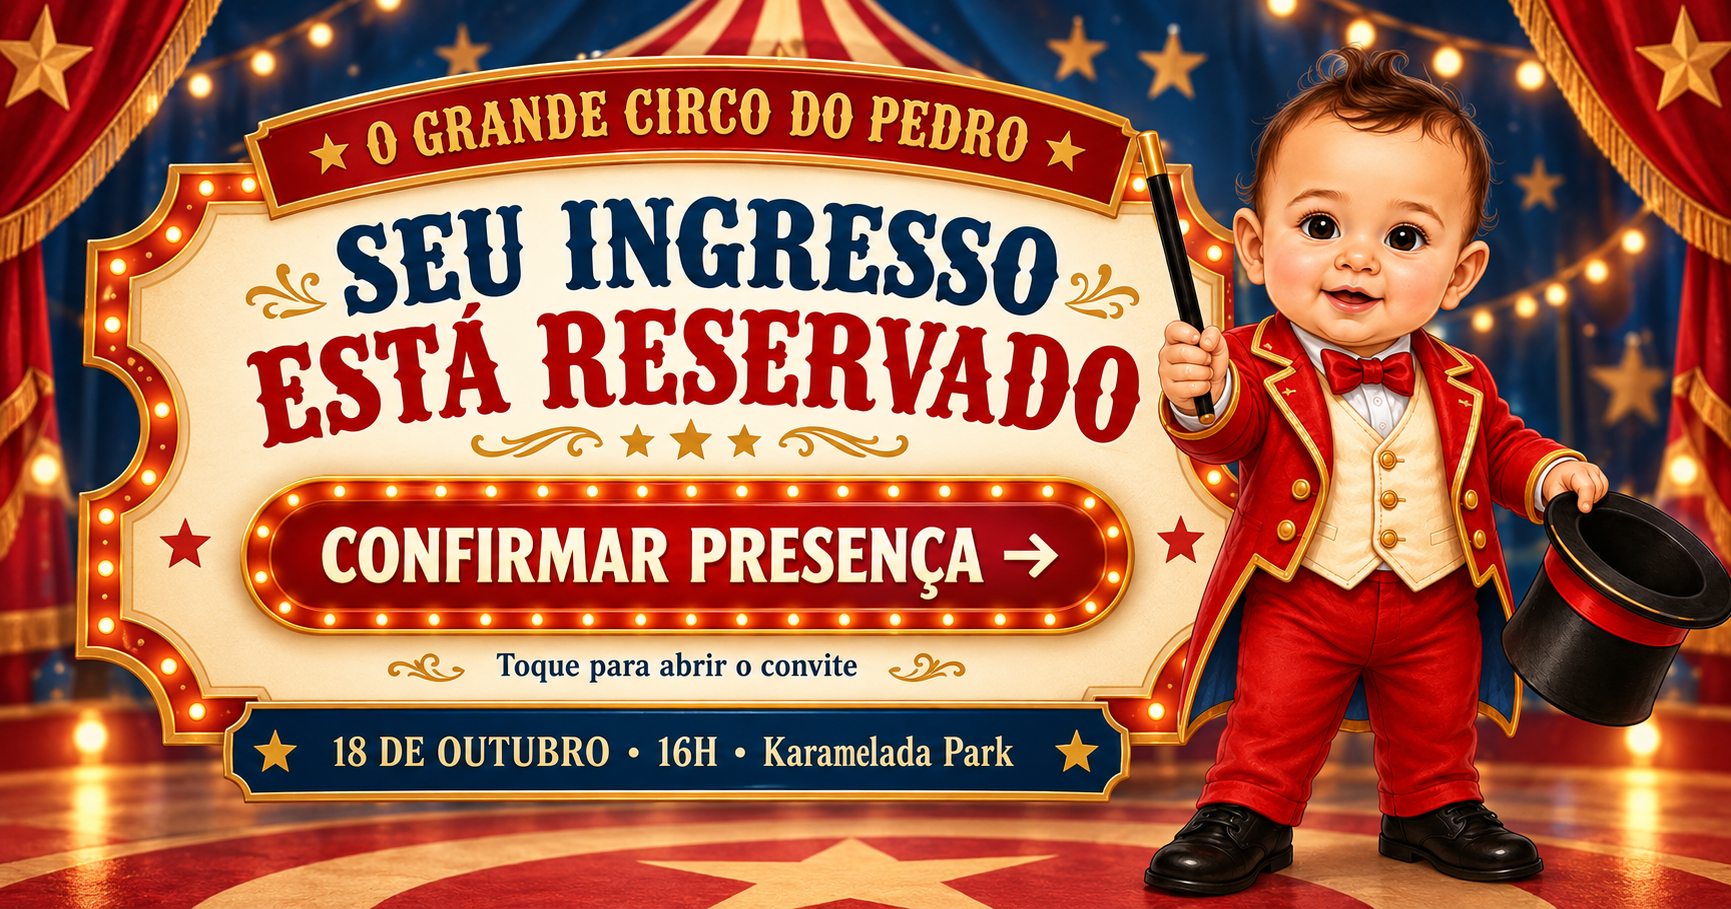
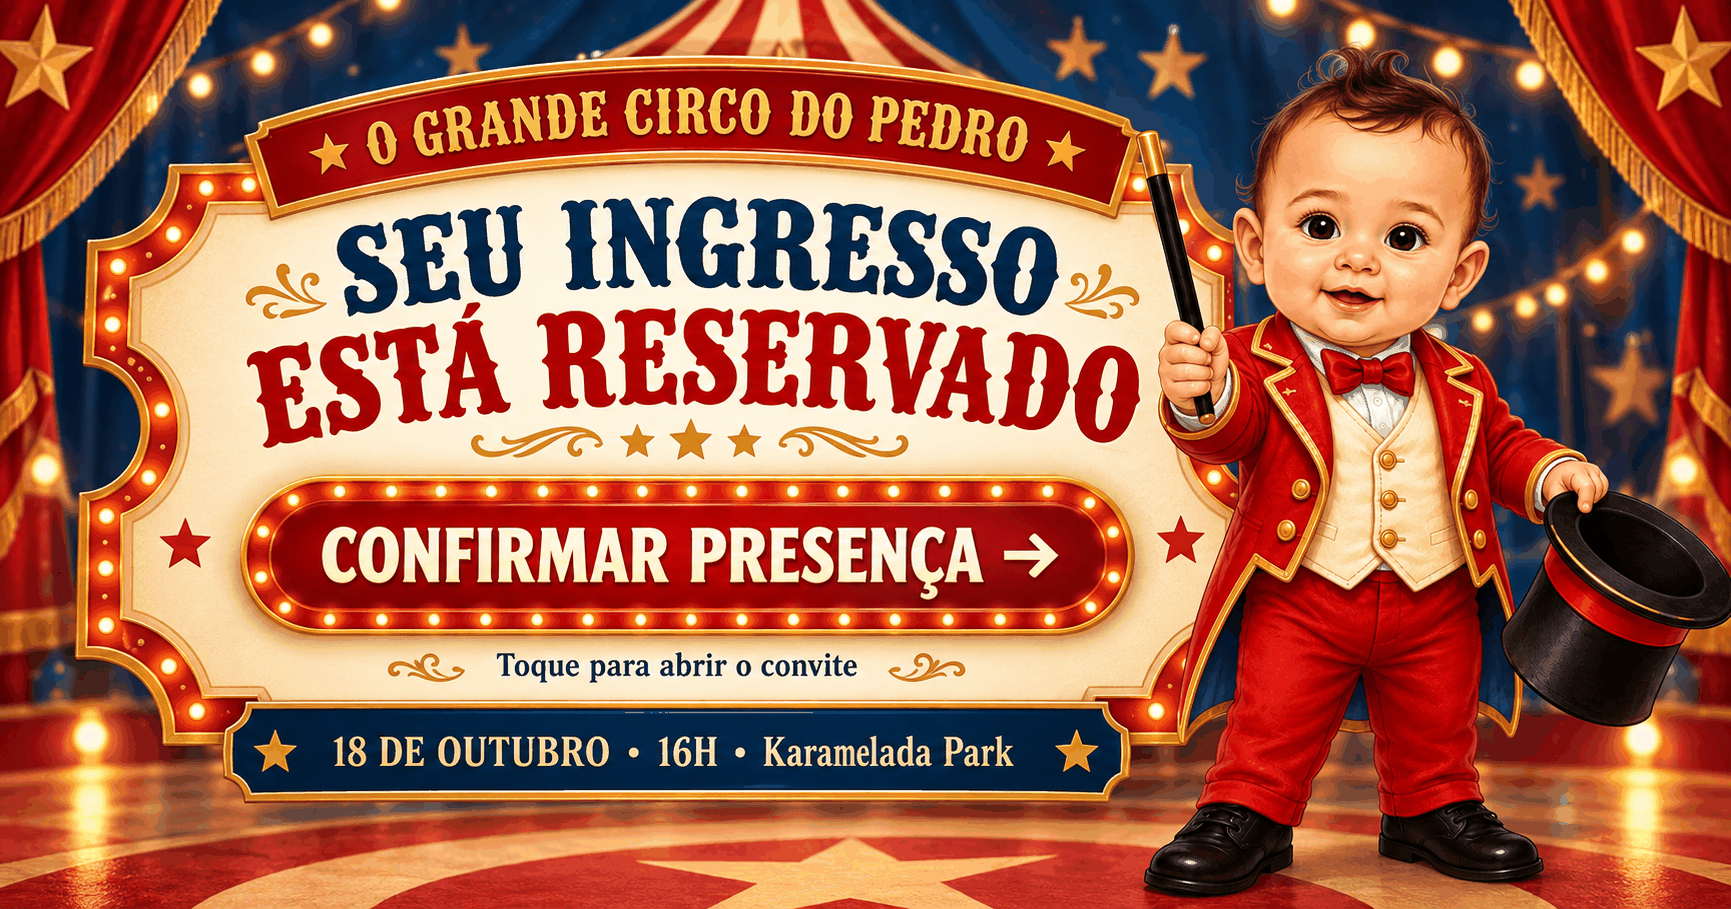
Corrige metatags Open Graph do convite

diff --git a/index.html b/index.html
@@ -8,20 +8,19 @@
   <title>O Grande Circo do Pedro</title>
   <link rel="canonical" href="https://convite-pedro.github.io/circo/">
   <meta property="og:type" content="website">
-  <meta property="og:site_name" content="O Grande Circo do Pedro">
   <meta property="og:title" content="O Grande Circo do Pedro">
   <meta property="og:description" content="Seu ingresso está reservado. Toque para abrir o convite e confirmar presença.">
   <meta property="og:url" content="https://convite-pedro.github.io/circo/">
-  <meta property="og:image" content="https://convite-pedro.github.io/circo/assets/imagem-link.png?v=3">
-  <meta property="og:image:secure_url" content="https://convite-pedro.github.io/circo/assets/imagem-link.png?v=3">
+  <meta property="og:image" content="https://convite-pedro.github.io/circo/assets/imagem-link.png">
+  <meta property="og:image:secure_url" content="https://convite-pedro.github.io/circo/assets/imagem-link.png">
   <meta property="og:image:type" content="image/png">
   <meta property="og:image:width" content="1640">
   <meta property="og:image:height" content="920">
-  <meta property="og:image:alt" content="O Grande Circo do Pedro">
+  <meta property="og:image:alt" content="Confirme sua presença no Grande Circo do Pedro">
   <meta name="twitter:card" content="summary_large_image">
   <meta name="twitter:title" content="O Grande Circo do Pedro">
   <meta name="twitter:description" content="Seu ingresso está reservado. Toque para abrir o convite e confirmar presença.">
-  <meta name="twitter:image" content="https://convite-pedro.github.io/circo/assets/imagem-link.png?v=3">
+  <meta name="twitter:image" content="https://convite-pedro.github.io/circo/assets/imagem-link.png">
   <link rel="preconnect" href="https://fonts.googleapis.com">
   <link rel="preconnect" href="https://fonts.gstatic.com" crossorigin>
   <link href="https://fonts.googleapis.com/css2?family=Fraunces:ital,opsz,wght@0,9..144,400;0,9..144,600;0,9..144,700;1,9..144,500&family=Manrope:wght@400;500;600;700&display=swap" rel="stylesheet">
